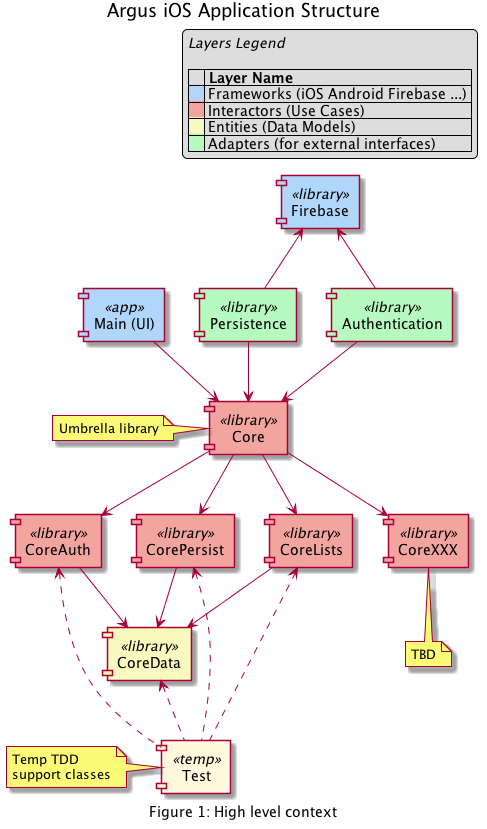
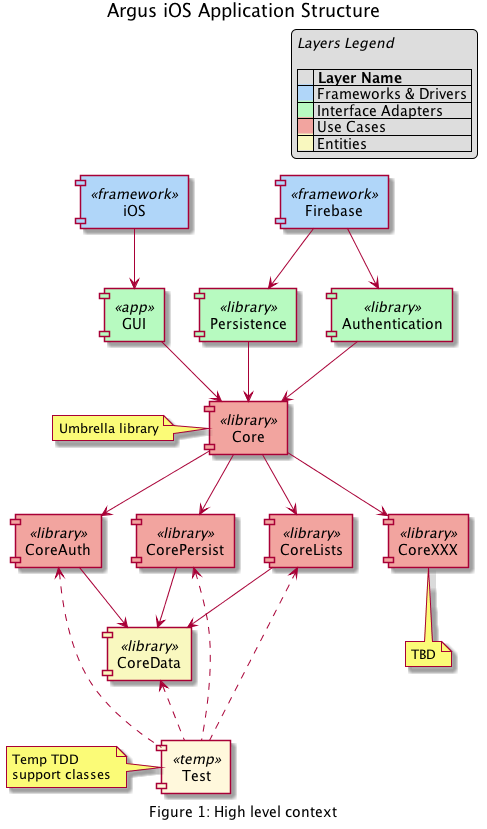
Enhance the initial documentation.
Rationale:
=========

This commit provides documentation that more closely fits with the
Uncle Bob Clean Architecture main document and shows the role of iOS
and Firebase more accurately.

diff --git a/README.md b/README.md
@@ -1,10 +1,12 @@
 # ArgusCoreSiX
 The umbrella framework that provides access to the core Argus modules (frameworks).
 
-Figure 1 shows the high level context in which the Argus core components exist.
+Figure 1 shows the high level context in which the Argus core components exist. These core components comprise the central layer of the module structure. Moving outward, the GUI, Persistence and Authentication modules adapt the facilities provided by the outer-most layer, the iOS and Firebase frameworks.
 
-The `<<app>>` module provides the UI code in as minimal a fashion as possible by invoking code in the core `<<library>>` modules to provide the main application features and functionality.
+The `<<app>>` module provides the GUI code in as minimal a fashion as possible by invoking code in the core `<<library>>` modules to provide the main application features and functionality.
 
-Each `<<library>>` module is provided by a Swift (Cocoa Touch) Framework under the auspices of [Carthage](https://github.com/Carthage/Carthage#carthage--). In a very strong sense, the Main module "plugs in" to the Core. The Core can also be considered the Domain layer in the [Clean Architecture](https://8thlight.com/blog/uncle-bob/2012/08/13/the-clean-architecture.html) sense.
+Each `<<library>>` module is provided by a Swift (Cocoa Touch) Framework (not to be confused with the iOS and Firebase framewoks) under the auspices of [Carthage](https://github.com/Carthage/Carthage#carthage--). In a very strong sense, the main (GUI) module "plugs in" to the Core. The Core can also be considered the Domain layer in the [Clean Architecture](https://8thlight.com/blog/uncle-bob/2012/08/13/the-clean-architecture.html) sense.
+
+The _Core_ module acts as an umbrella to wrap the modules providing the core application functions. Each wrapped core module implements the Use Cases or provides the core data.
 
 ![Argus Core Structure](context.png)
